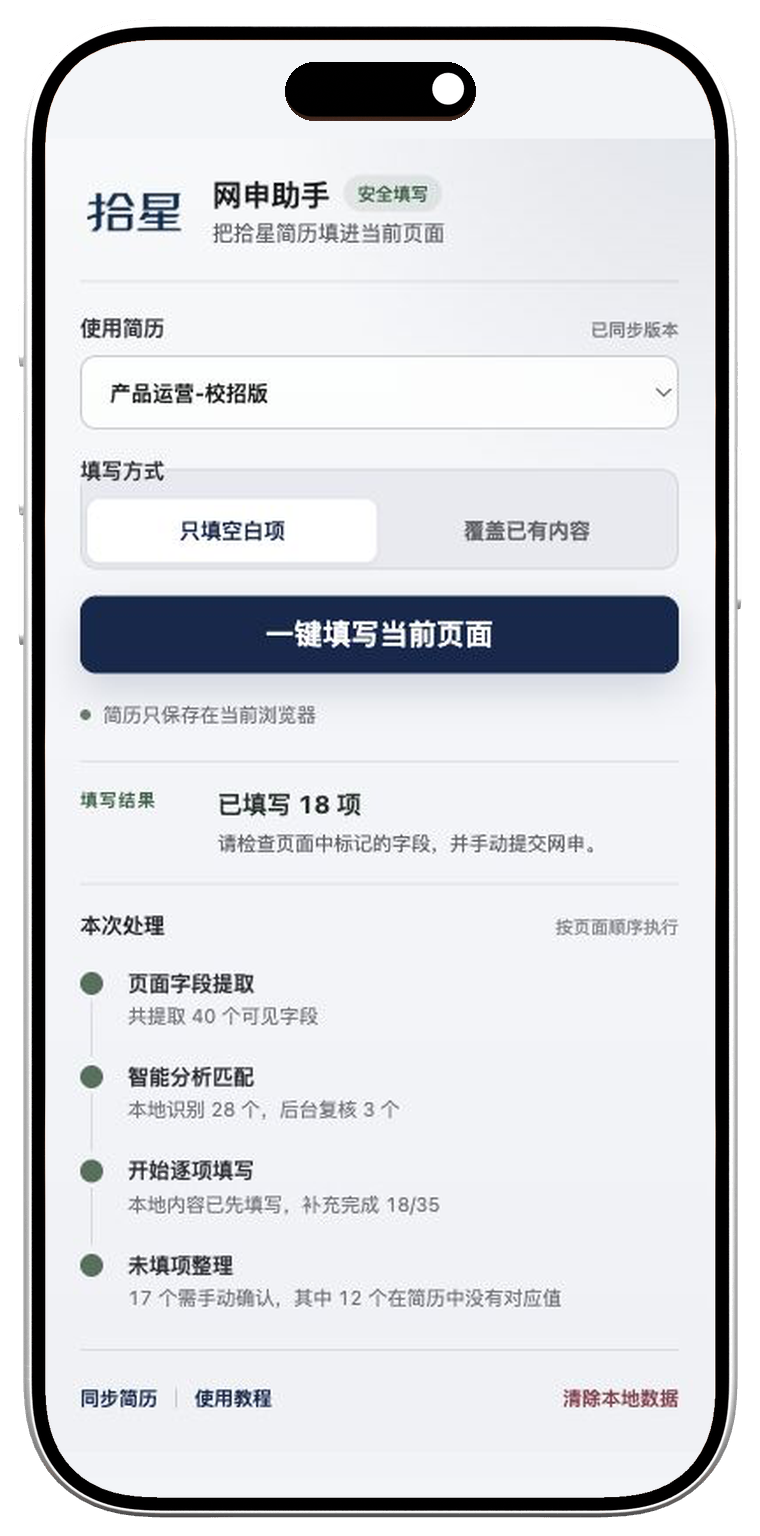
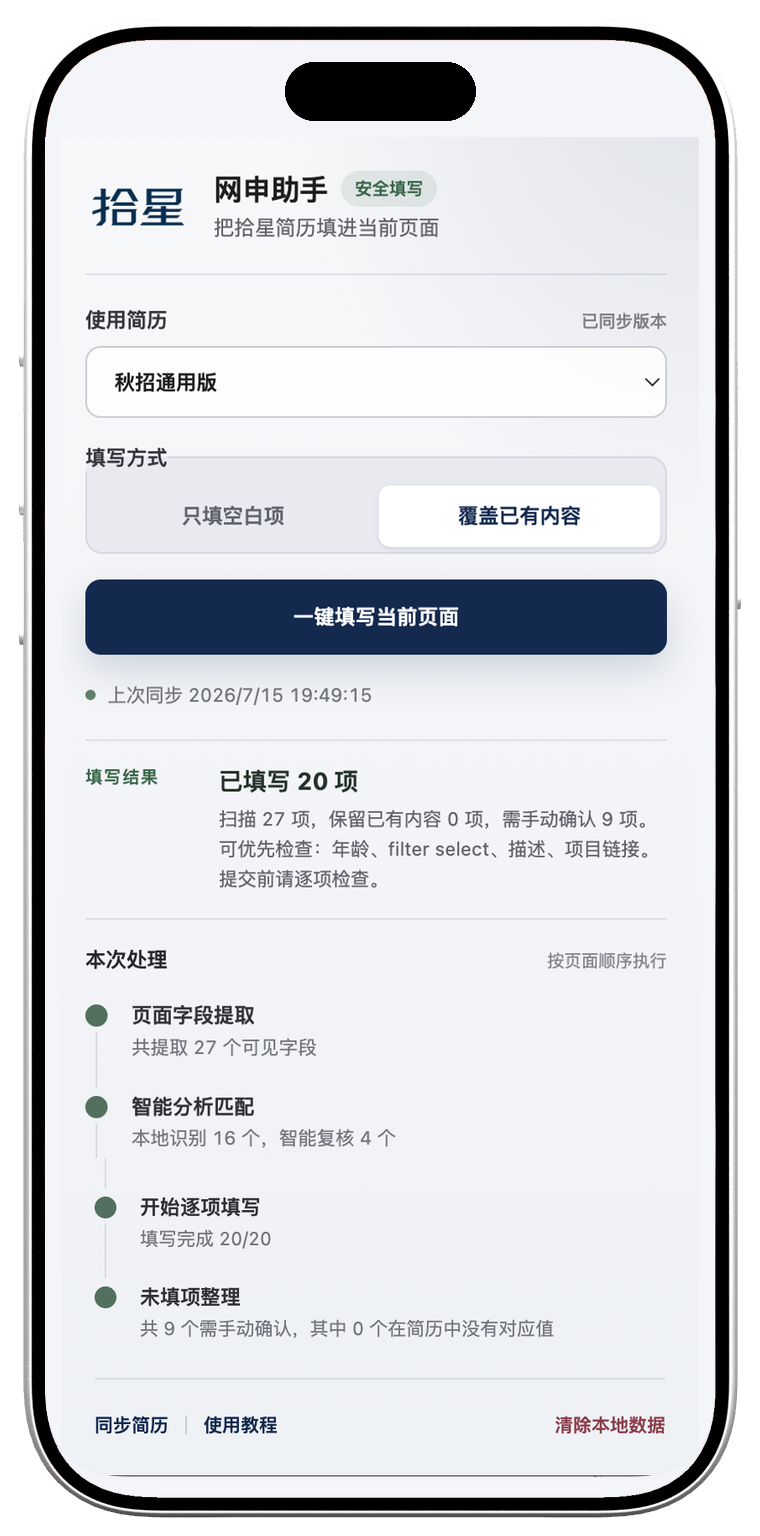
fix: sharpen extension product visual

diff --git a/src/components/extension/ExtensionHubClient.tsx b/src/components/extension/ExtensionHubClient.tsx
@@ -131,11 +131,12 @@ export function ExtensionHubClient() {
     <div className="observatory-page extension-page space-y-16">
       <section className="extension-hero grid items-center gap-10 border-b border-[color:var(--line-ghost)] pb-12 lg:grid-cols-[minmax(0,1.08fr)_minmax(340px,0.92fr)]">
         <div className="max-w-2xl">
-          <h1 className="max-w-[11ch] text-4xl font-semibold leading-[1.08] tracking-[-0.035em] text-ink-primary sm:text-5xl">
-            一份简历，投向更多可能
+          <h1 className="text-4xl font-semibold leading-[1.08] tracking-[-0.035em] text-ink-primary sm:text-5xl">
+            <span className="block">一份简历，</span>
+            <span className="block">投向更多可能</span>
           </h1>
           <p className="mt-5 max-w-[46ch] text-base leading-8 text-ink-secondary">
-            将拾星简历同步到浏览器，常见网申字段按页面顺序填入。你只需检查，再决定提交。
+            将拾星简历同步到浏览器，调用拾星网申工具填写常用字段。你只需检查后提交。
           </p>
           <div className="mt-7 flex flex-wrap gap-3">
             <a href={DOWNLOAD_URL} target="_blank" rel="noreferrer" className="gold-button pressable inline-flex h-11 items-center gap-2 rounded-lg px-4 text-sm font-semibold">